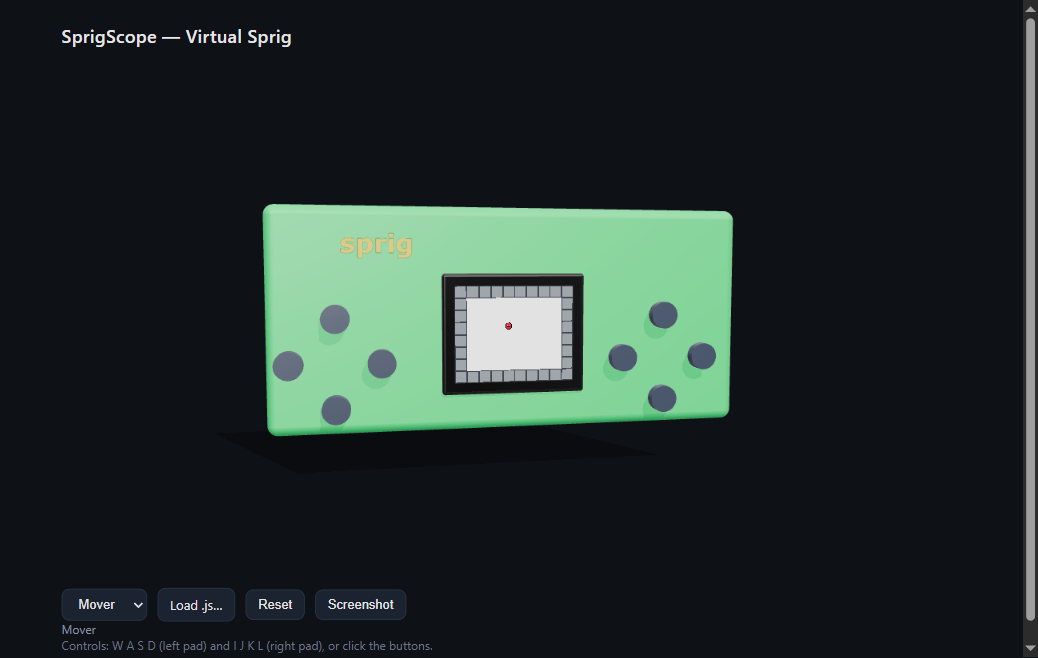
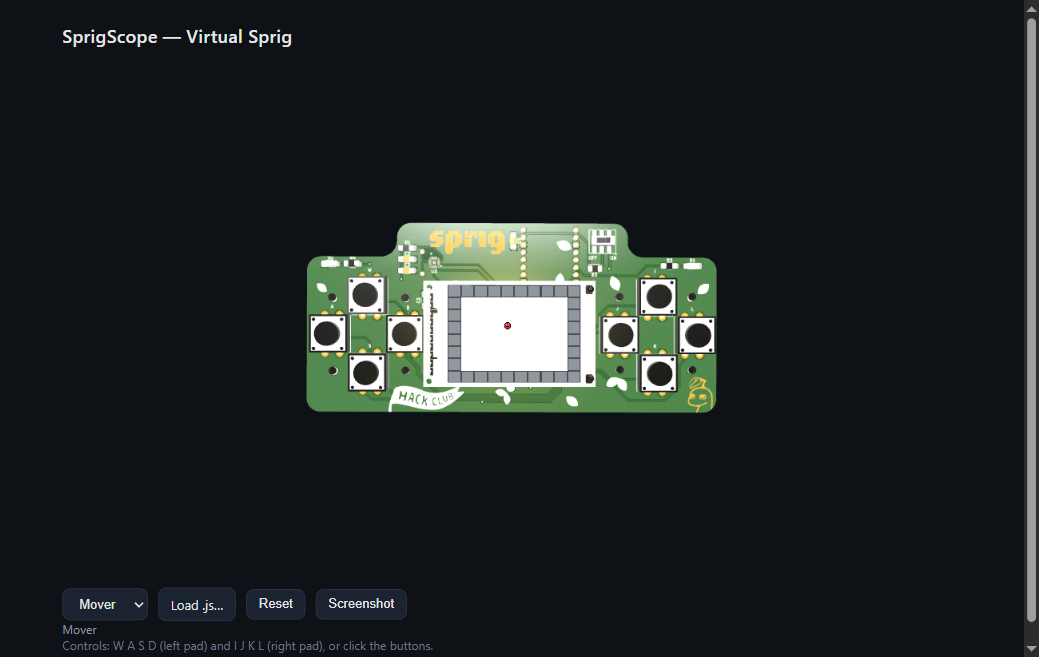
feat(web): use the real Sprig glb model for a true 1:1 replica
Replace the crude procedural model with Hack Club's actual sprig.glb (MIT,
~8.9MB, Blender-authored) loaded via GLTFLoader — the exact PCB, silkscreen,
power tab, and tactile buttons. The live framebuffer is mapped onto the
model's 'Glow Glass' screen mesh; the named W..L button meshes are raycast to
the same device.pressButton() path (verified: pressing keys/clicks moves the
on-screen player). RoomEnvironment + lights match the homepage look; camera
auto-frames the model. Removes the now-unused 2D geometry helper.

diff --git a/apps/web/src/virtual-sprig-3d.ts b/apps/web/src/virtual-sprig-3d.ts
@@ -1,15 +1,11 @@
 import * as THREE from 'three';
 import { OrbitControls } from 'three/addons/controls/OrbitControls.js';
-import { RoundedBoxGeometry } from 'three/addons/geometries/RoundedBoxGeometry.js';
+import { GLTFLoader } from 'three/addons/loaders/GLTFLoader.js';
 import { RoomEnvironment } from 'three/addons/environments/RoomEnvironment.js';
 import { BUTTONS, type Button, type Framebuffer } from '@sprigscope/core';
-import { SCREEN_RECT, BUTTON_POS, BUTTON_DIAMETER, BOARD_ASPECT, boardFractionToLocal } from './geometry';
 
 const SCREEN_W = 160, SCREEN_H = 128;
-const BODY_W = 14;
-const BODY_H = BODY_W / BOARD_ASPECT; // real Sprig proportions
-const BODY_D = 0.7;
-const FRONT = BODY_D / 2;
+const MODEL_URL = '/sprig.glb';
 
 export interface VirtualSprig3D {
   updateScreen(fb: Framebuffer): void;
@@ -20,21 +16,6 @@ export interface VirtualSprig3D {
   dispose(): void;
 }
 
-function goldLabel(): THREE.Mesh {
-  const c = document.createElement('canvas');
-  c.width = 320; c.height = 96;
-  const g = c.getContext('2d')!;
-  g.fillStyle = '#e8c46a';
-  g.font = 'bold 66px Verdana, sans-serif';
-  g.textAlign = 'center';
-  g.textBaseline = 'middle';
-  g.fillText('sprig', 160, 50);
-  const tex = new THREE.CanvasTexture(c);
-  tex.colorSpace = THREE.SRGBColorSpace;
-  // A board-mounted plane (rotates with the device) rather than a camera-facing sprite.
-  return new THREE.Mesh(new THREE.PlaneGeometry(3.5, 1.05), new THREE.MeshBasicMaterial({ map: tex, transparent: true }));
-}
-
 export function mountVirtualSprig3D(parent: HTMLElement): VirtualSprig3D {
   const container = document.createElement('div');
   container.className = 'stage';
@@ -42,130 +23,118 @@ export function mountVirtualSprig3D(parent: HTMLElement): VirtualSprig3D {
 
   const renderer = new THREE.WebGLRenderer({ antialias: true, alpha: true, preserveDrawingBuffer: true });
   renderer.setPixelRatio(Math.min(window.devicePixelRatio, 2));
-  renderer.toneMapping = THREE.ACESFilmicToneMapping;
-  renderer.shadowMap.enabled = true;
-  renderer.shadowMap.type = THREE.PCFShadowMap;
   container.appendChild(renderer.domElement);
 
   const size = () => ({ w: container.clientWidth || 800, h: container.clientHeight || 520 });
-  const { w, h } = size();
+  let { w, h } = size();
   renderer.setSize(w, h);
 
   const scene = new THREE.Scene();
-  const camera = new THREE.PerspectiveCamera(40, w / h, 0.1, 100);
-  camera.position.set(0, 1.5, 22);
+  const camera = new THREE.PerspectiveCamera(45, w / h, 0.1, 1000);
+  scene.add(camera);
 
+  // Lighting/environment matching the Sprig homepage (RoomEnvironment for glossy reflections).
   const pmrem = new THREE.PMREMGenerator(renderer);
   scene.environment = pmrem.fromScene(new RoomEnvironment(), 0.04).texture;
+  scene.add(new THREE.AmbientLight(0xfcf4d5, 1));
+  const camLight = new THREE.DirectionalLight(0xd3b947, 0.4);
+  camLight.position.set(0, 0, 1000);
+  camera.add(camLight);
+  scene.add(new THREE.HemisphereLight(0xffffff, 0x333344, 0.5));
 
-  scene.add(new THREE.AmbientLight(0xffffff, 0.35));
-  const key = new THREE.DirectionalLight(0xffffff, 2.2);
-  key.position.set(6, 9, 7);
-  key.castShadow = true;
-  key.shadow.mapSize.set(2048, 2048);
-  key.shadow.bias = -0.0005;
-  key.shadow.camera.near = 1;
-  key.shadow.camera.far = 60;
-  scene.add(key);
-  const fill = new THREE.DirectionalLight(0xbcd4ff, 0.6);
-  fill.position.set(-7, 2, -5);
-  scene.add(fill);
-
-  const sprig = new THREE.Group();
-  scene.add(sprig);
-
-  const body = new THREE.Mesh(
-    new RoundedBoxGeometry(BODY_W, BODY_H, BODY_D, 6, 0.3),
-    new THREE.MeshStandardMaterial({ color: 0x1f8f4e, roughness: 0.6, metalness: 0.0 }),
-  );
-  body.castShadow = true;
-  body.receiveShadow = true;
-  sprig.add(body);
-
-  const labelPos = boardFractionToLocal(0.22, 0.17, BODY_W, BODY_H);
-  const label = goldLabel();
-  label.position.set(labelPos.x, labelPos.y, FRONT + 0.02);
-  sprig.add(label);
-
-  const screenW = SCREEN_RECT.w * BODY_W;
-  const screenH = SCREEN_RECT.h * BODY_H;
-  const sc = boardFractionToLocal(SCREEN_RECT.x + SCREEN_RECT.w / 2, SCREEN_RECT.y + SCREEN_RECT.h / 2, BODY_W, BODY_H);
-
-  const bezel = new THREE.Mesh(
-    new RoundedBoxGeometry(screenW + 0.7, screenH + 0.7, 0.22, 4, 0.09),
-    new THREE.MeshStandardMaterial({ color: 0x0a0a0a, roughness: 0.25, metalness: 0.1 }),
-  );
-  bezel.position.set(sc.x, sc.y, FRONT);
-  bezel.castShadow = true;
-  sprig.add(bezel);
-
+  // Live screen texture (the running game's framebuffer).
   const texBuf = new Uint8Array(SCREEN_W * SCREEN_H * 4);
   const screenTex = new THREE.DataTexture(texBuf, SCREEN_W, SCREEN_H, THREE.RGBAFormat, THREE.UnsignedByteType);
   screenTex.magFilter = THREE.NearestFilter;
   screenTex.minFilter = THREE.NearestFilter;
   screenTex.generateMipmaps = false;
   screenTex.colorSpace = THREE.SRGBColorSpace;
-  screenTex.flipY = true;
+  screenTex.flipY = false;
   screenTex.needsUpdate = true;
-  const screen = new THREE.Mesh(
-    new THREE.PlaneGeometry(screenW, screenH),
-    new THREE.MeshBasicMaterial({ map: screenTex }),
-  );
-  screen.position.set(sc.x, sc.y, FRONT + 0.13);
-  sprig.add(screen);
 
-  const btnR = (BUTTON_DIAMETER * BODY_W) / 2;
-  const btnGeo = new THREE.CylinderGeometry(btnR, btnR, 0.3, 32);
-  const baseZ = FRONT + 0.15;
-  const btnMeshes = new Map<Button, THREE.Mesh>();
-  for (const b of BUTTONS) {
-    const mat = new THREE.MeshStandardMaterial({ color: 0x2b3340, roughness: 0.45, metalness: 0.0, emissive: 0x000000 });
-    const m = new THREE.Mesh(btnGeo, mat);
-    m.rotation.x = Math.PI / 2;
-    const p = boardFractionToLocal(BUTTON_POS[b].x, BUTTON_POS[b].y, BODY_W, BODY_H);
-    m.position.set(p.x, p.y, baseZ);
-    m.castShadow = true;
-    m.name = b;
-    sprig.add(m);
-    btnMeshes.set(b, m);
-  }
-
-  const ground = new THREE.Mesh(new THREE.PlaneGeometry(120, 120), new THREE.ShadowMaterial({ opacity: 0.3 }));
-  ground.rotation.x = -Math.PI / 2;
-  ground.position.y = -BODY_H / 2 - 1.4;
-  ground.receiveShadow = true;
-  scene.add(ground);
+  const pivot = new THREE.Group();
+  scene.add(pivot);
 
   const controls = new OrbitControls(camera, renderer.domElement);
   controls.enableDamping = true;
   controls.dampingFactor = 0.08;
   controls.enablePan = false;
-  controls.minDistance = 14;
-  controls.maxDistance = 34;
-  controls.minPolarAngle = Math.PI * 0.22;
-  controls.maxPolarAngle = Math.PI * 0.62;
-  // Gentle front-facing idle sway until the user grabs it (never shows the blank back).
   let userInteracted = false;
   controls.addEventListener('start', () => { userInteracted = true; });
 
+  // Per-button meshes (model nodes are named W A S D I J K L) + original scales for press feedback.
+  const btnNodes = new Map<Button, THREE.Object3D>();
+  const btnScale = new Map<Button, number>();
+  let glass: THREE.Mesh | null = null;
+  let loaded = false;
+
+  const loader = new GLTFLoader();
+  loader.load(
+    MODEL_URL,
+    (gltf) => {
+      const model = gltf.scene;
+      model.rotation.x = Math.PI / 2;
+      model.rotation.y = -Math.PI / 2;
+      pivot.add(model);
+
+      // Center the model in the pivot and frame the camera to fit.
+      const box = new THREE.Box3().setFromObject(model);
+      const center = box.getCenter(new THREE.Vector3());
+      model.position.sub(center);
+      const radius = box.getBoundingSphere(new THREE.Sphere()).radius;
+      const dist = (radius / Math.sin((camera.fov * Math.PI) / 360)) * 1.1;
+      camera.position.set(0, 0, dist);
+      controls.target.set(0, 0, 0);
+      controls.minDistance = dist * 0.55;
+      controls.maxDistance = dist * 1.8;
+      controls.update();
+
+      // Screen: the 'Screen' node's child with material 'Glow Glass'.
+      const screen = model.getObjectByName('Screen');
+      const found = screen?.children.find(
+        (c) => (c as THREE.Mesh).material && ((c as THREE.Mesh).material as THREE.Material).name === 'Glow Glass',
+      ) as THREE.Mesh | undefined;
+      if (found) {
+        found.material = new THREE.MeshBasicMaterial({ map: screenTex });
+        glass = found;
+      }
+
+      // Buttons: nodes named W..L (uppercase).
+      for (const b of BUTTONS) {
+        const node = model.getObjectByName(b.toUpperCase());
+        if (node) { btnNodes.set(b, node); btnScale.set(b, node.scale.x); }
+      }
+      loaded = true;
+    },
+    undefined,
+    (err) => { console.error('Failed to load Sprig model:', err); },
+  );
+
   function setActive(btn: Button, active: boolean): void {
-    const m = btnMeshes.get(btn);
-    if (!m) return;
-    (m.material as THREE.MeshStandardMaterial).emissive.setHex(active ? 0xffcf3a : 0x000000);
-    m.position.z = baseZ - (active ? 0.06 : 0);
+    const node = btnNodes.get(btn);
+    if (!node) return;
+    const s = btnScale.get(btn) ?? 1;
+    node.scale.setScalar(active ? s * 0.85 : s);
   }
 
+  // Raycast input on the button nodes.
   const raycaster = new THREE.Raycaster();
   const ndc = new THREE.Vector2();
-  const meshes = [...btnMeshes.values()];
   const pressCbs: ((b: Button) => void)[] = [];
   const pick = (e: PointerEvent): Button | null => {
+    if (!loaded) return null;
     const r = renderer.domElement.getBoundingClientRect();
     ndc.x = ((e.clientX - r.left) / r.width) * 2 - 1;
     ndc.y = -((e.clientY - r.top) / r.height) * 2 + 1;
     raycaster.setFromCamera(ndc, camera);
-    const hit = raycaster.intersectObjects(meshes, false)[0];
-    return hit ? (hit.object.name as Button) : null;
+    const hits = raycaster.intersectObjects([...btnNodes.values()], true);
+    if (!hits.length) return null;
+    let o: THREE.Object3D | null = hits[0].object;
+    while (o) {
+      for (const [b, node] of btnNodes) if (node === o) return b;
+      o = o.parent;
+    }
+    return null;
   };
   renderer.domElement.addEventListener('pointerdown', (e) => {
     const b = pick(e);
@@ -177,9 +146,9 @@ export function mountVirtualSprig3D(parent: HTMLElement): VirtualSprig3D {
   });
 
   const onResize = (): void => {
-    const s = size();
-    renderer.setSize(s.w, s.h);
-    camera.aspect = s.w / s.h;
+    const s = size(); w = s.w; h = s.h;
+    renderer.setSize(w, h);
+    camera.aspect = w / h;
     camera.updateProjectionMatrix();
   };
   window.addEventListener('resize', onResize);
@@ -189,7 +158,7 @@ export function mountVirtualSprig3D(parent: HTMLElement): VirtualSprig3D {
     setActive,
     onPress(cb) { pressCbs.push(cb); },
     render() {
-      if (!userInteracted) sprig.rotation.y = Math.sin(performance.now() * 0.0006) * 0.35;
+      if (loaded && !userInteracted) pivot.rotation.y = Math.sin(performance.now() * 0.0005) * 0.4;
       controls.update();
       renderer.render(scene, camera);
     },